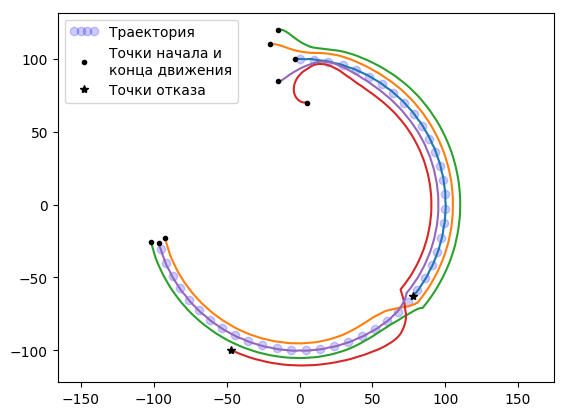
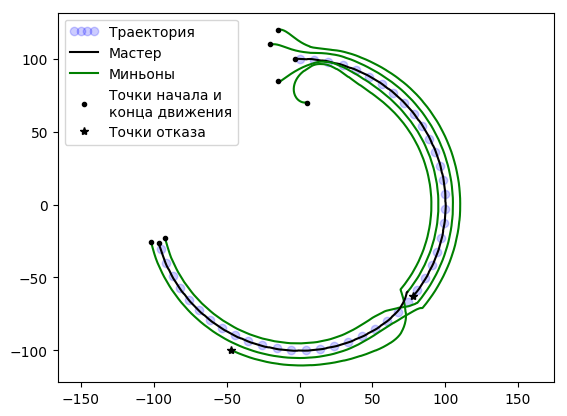
Симуляция с отказом мастера и одного миньона

Changed region(s): [[0.2698, 0.0938, 0.8395, 0.9062], [0.1199, 0.0938, 0.4198, 0.2812], [0.2099, 0.3125, 0.3598, 0.3438]]

diff --git a/simulation.py b/simulation.py
@@ -231,14 +231,20 @@ def flex_platoon_sim():
 
     traj,  = plt.plot([p.x for p in tr], [p.y for p in tr], 'bo', alpha=0.2, label='Траектория')
     for i in range(len(ftp.agents)):
-        track, = plt.plot([p.x for p in ftp.agents[i].story.positions], [p.y for p in ftp.agents[i].story.positions], ls='-')
+        if i == 0:
+            master_tr, = plt.plot([p.x for p in ftp.agents[i].story.positions], [p.y for p in ftp.agents[i].story.positions], color='black', label='Мастер')
+        elif i == 4:
+            track, = plt.plot([p.x for p in ftp.agents[i].story.positions[0:501]], [p.y for p in ftp.agents[i].story.positions[0:501]], color='green')
+            track, = plt.plot([p.x for p in ftp.agents[i].story.positions[500:]], [p.y for p in ftp.agents[i].story.positions[500:]], color='black')
+        else:
+            minion_tr, = plt.plot([p.x for p in ftp.agents[i].story.positions], [p.y for p in ftp.agents[i].story.positions], color='green', label='Миньоны')
         s, = plt.plot(ftp.agents[i].story.positions[0].x, ftp.agents[i].story.positions[0].y, 'k.', label='Точки начала и\nконца движения')
         if not i == 0 and not i == 3:
             f, = plt.plot(ftp.agents[i].story.positions[-1].x, ftp.agents[i].story.positions[-1].y, 'k.', label='Конечная точка')
     f, = plt.plot(ftp.agents[0].story.positions[-1].x, ftp.agents[0].story.positions[-1].y, 'k*')
     f, = plt.plot(ftp.agents[3].story.positions[-1].x, ftp.agents[3].story.positions[-1].y, 'k*', label='Точки отказа')
     plt.axis('equal')
-    plt.legend(handler_map={traj: HandlerLine2D(numpoints=4)}, handles=[traj, s, f], loc=2)
+    plt.legend(handler_map={traj: HandlerLine2D(numpoints=4)}, handles=[traj, master_tr, minion_tr, s, f], loc=2)
     plt.savefig('text/platoon/with-crashes.png', bbox_inches='tight')
 
 if __name__ == '__main__':
